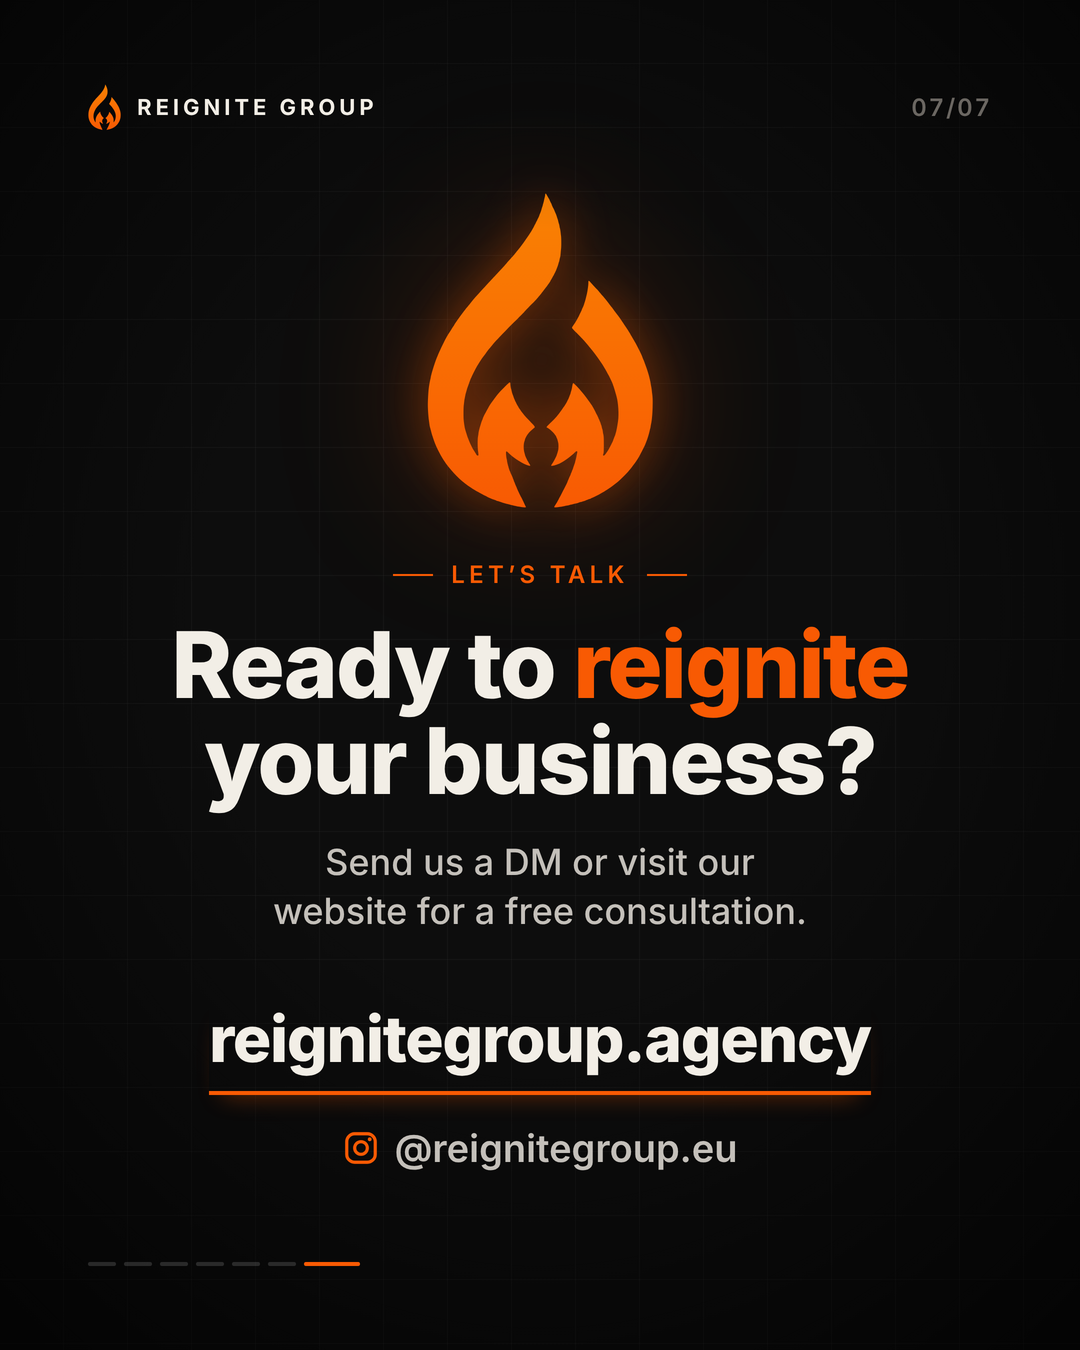
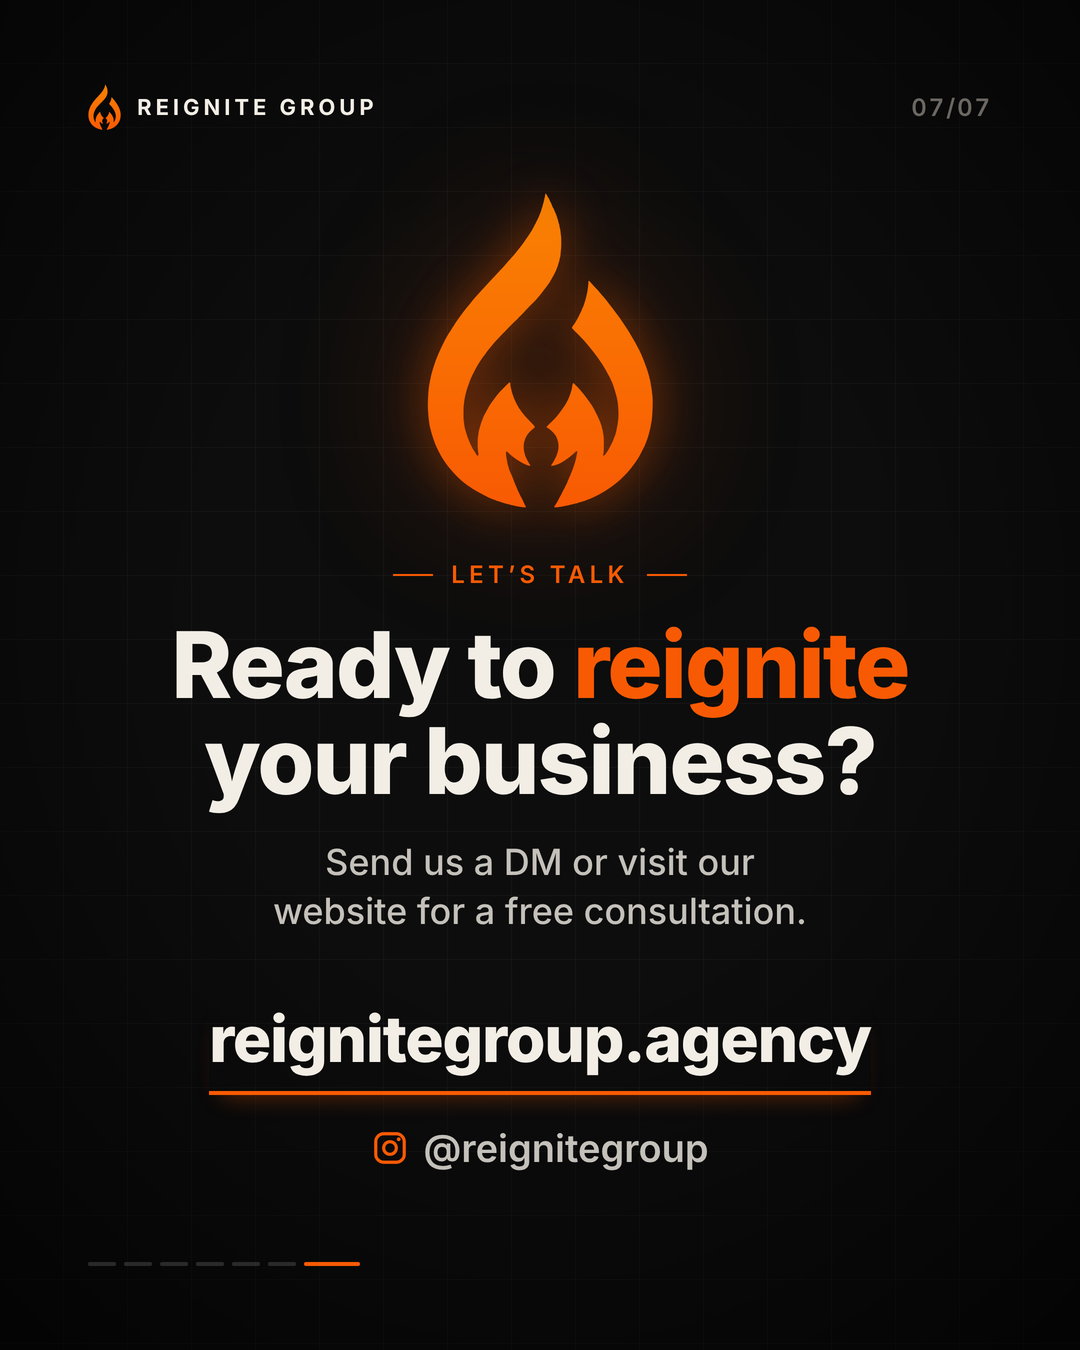
Use @reignitegroup handle on the last carousel slide
Claude-Session: https://claude.ai/code/session_01Qujp7BaHSPAXB9ecqQVEgF

Changed region(s): [[0.3056, 0.84, 0.6722, 0.8711]]

diff --git a/reignite-carousel/slides.html b/reignite-carousel/slides.html
@@ -498,7 +498,7 @@
 		<h1>Ready to <em>reignite</em><br>your business?</h1>
 		<p class="body">Send us a DM or visit our website for a free consultation.</p>
 		<div class="site">reignitegroup.agency</div>
-		<div class="handle"><svg viewBox="0 0 24 24"><rect class="icon" x="3" y="3" width="18" height="18" rx="5"/><circle class="icon" cx="12" cy="12" r="4"/><circle cx="17.5" cy="6.5" r="1.2" fill="#F85A03"/></svg>@reignitegroup.eu</div>
+		<div class="handle"><svg viewBox="0 0 24 24"><rect class="icon" x="3" y="3" width="18" height="18" rx="5"/><circle class="icon" cx="12" cy="12" r="4"/><circle cx="17.5" cy="6.5" r="1.2" fill="#F85A03"/></svg>@reignitegroup</div>
 	</div>
 </section>
 
